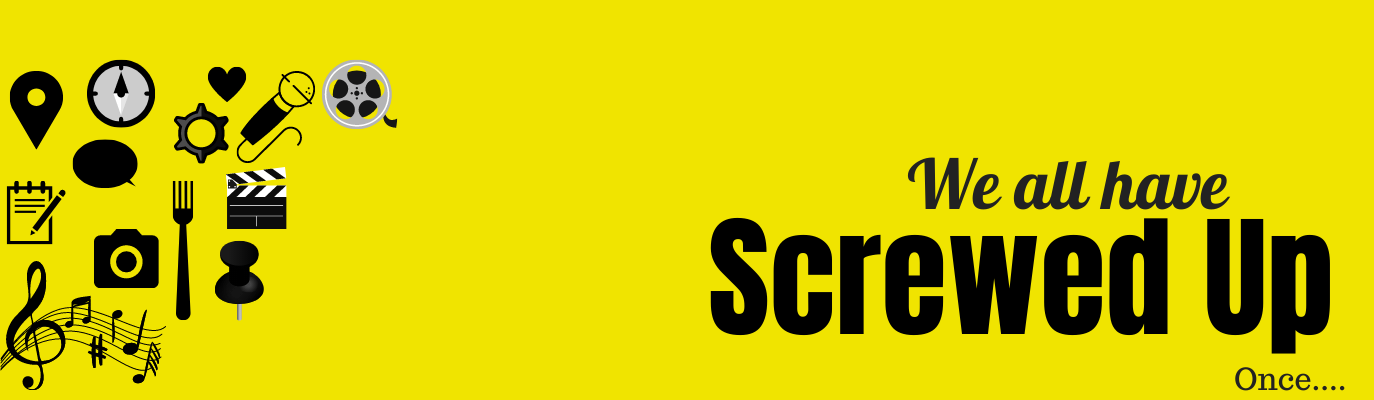
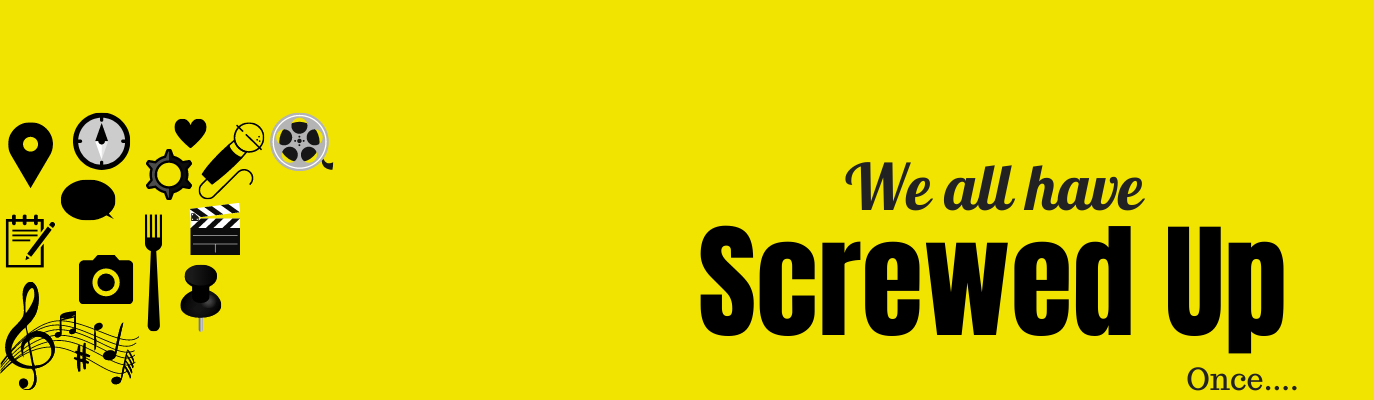
Updated

Changed region(s): [[0.4891, 0.39, 0.9782, 0.99], [0.0, 0.15, 0.3057, 0.99]]

diff --git a/index.html b/index.html
@@ -78,7 +78,7 @@
 
         <section id="header">
             <div>
-                <img src="bg.png" width="1374">
+                <img src="bg.png">
             </div> 
         </section>
 
